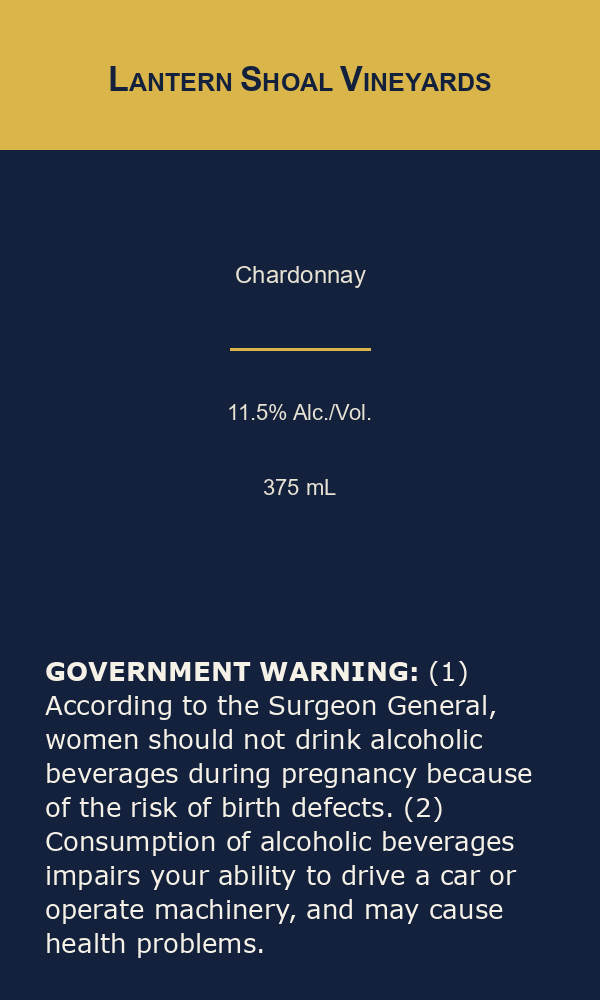
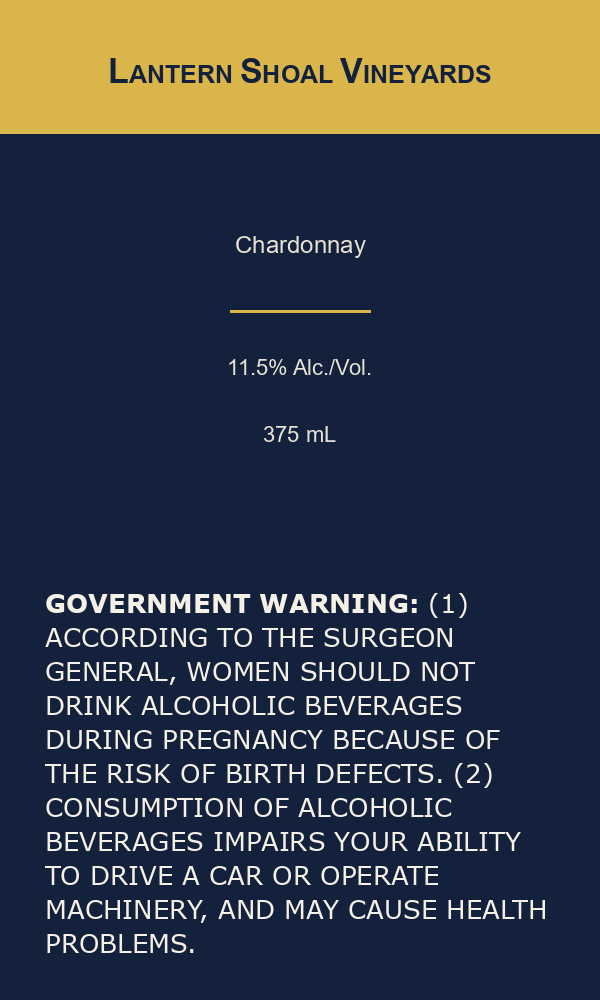
fix: the warning comparator enforced case where the regulation does not
27 CFR 16.22(a)(2) fixes capitals (and bold) for the two heading words
only; the case of the statement body is unregulated, and real approved
labels routinely print the whole statement in capitals — two of two
sampled registry labels do. The old comparator treated any case
difference from the CFR rendering as a capitalization violation, so
legal labels failed.

The comparator now splits where the regulation splits: the heading is
located space-insensitively (OCR drops spaces) and compared exactly;
the body is compared casefolded, word-for-word. Wording defects take
precedence over capitalization, and the word diff displays text as
printed. Two generated fixtures render the body in capitals with
expected verdict pass, pinned through the real matcher at generation
time — an assertion that fails under the old comparator, which is the
point.

Also here: prompt caching evaluated and rejected in DESIGN (the
extractor's stable prefix sits an order of magnitude under Haiku's
minimum cacheable prefix, so a cache marker would be a silent no-op),
the last demo framing removed from internal comments and ADR-0004, the
fixture-replay docstring no longer describes a runtime fallback that
does not exist, and dev-only tools/ no longer ships in the image.

Assisted-by: Claude (claude-fable-5)

diff --git a/src/label_assay/match/warning.py b/src/label_assay/match/warning.py
@@ -1,15 +1,22 @@
 """Government Warning comparison — 27 CFR 16.21 and 16.22(a)(2).
 
-Canonicalize (case-preserving), then compare in two views over the same string:
+Canonicalize (case-preserving), then compare the statement in two parts,
+because the regulation treats them differently:
 
-- verbatim: exact equality of the canonical strings.
-- substance: equality after casefold.
+- heading: the statement's first two words with their colon ("Government
+  Warning" in the mandated capitals) — the only words whose case 16.22(a)(2)
+  regulates. Located space-insensitively, because OCR often drops the space
+  between the rendered heading words (the same concern the bold check
+  handles), then compared case-sensitively.
+- body: the remainder. 16.21 fixes its wording, but no regulation fixes its
+  case — TTB-approved labels routinely set the entire statement in capitals —
+  so it is compared casefolded.
 
-The 2x2 is the finding. Both pass -> compliant. Substance passes but verbatim
-fails -> a capitalization violation (e.g. "Government Warning" in title case,
-which 16.22(a)(2) forbids). Substance fails -> a word is changed, missing, or
-added. The word-level diff is for explaining the finding to a reviewer, never
-for deciding it.
+Heading exact and body words equal -> MATCH. Heading present in the wrong
+case with the body words equal -> CAPITALIZATION. Any changed, missing, or
+added word -> ALTERED, which takes precedence over CAPITALIZATION. The
+word-level diff is for explaining the finding to a reviewer, never for
+deciding it.
 
 A VLM must never adjudicate this: vision models recite this famous paragraph
 from memory and will "read" the mandated text off a label that does not carry
@@ -39,6 +46,11 @@ class WarningFinding:
     diff: tuple[tuple[str, str, str], ...] = ()  # (op, expected_span, found_span)
 
 
+_ALTERED_DETAIL = (
+    "Warning text differs from the mandated statement — a word is changed, missing, or added."
+)
+
+
 def compare_warning(found_text: str | None, reference: str) -> WarningFinding:
     if not found_text or not found_text.strip():
         return WarningFinding(WarningVerdict.ABSENT, "No Government Warning text was found.")
@@ -46,27 +58,58 @@ def compare_warning(found_text: str | None, reference: str) -> WarningFinding:
     ref = canon_statutory(reference)
     got = canon_statutory(found_text)
 
-    if got == ref:
-        return WarningFinding(WarningVerdict.MATCH, "Matches the mandated warning verbatim.")
-    if got.casefold() == ref.casefold():
+    ref_words = ref.split()
+    ref_heading, ref_body = " ".join(ref_words[:2]), " ".join(ref_words[2:])
+
+    located = _locate_heading(got, ref_heading)
+    if located is None:
+        # The heading words themselves are altered or missing.
+        return WarningFinding(WarningVerdict.ALTERED, _ALTERED_DETAIL, _word_diff(ref, got))
+    got_heading, got_body = located
+
+    if got_body.casefold() != ref_body.casefold():
+        # ALTERED outranks CAPITALIZATION: wrong words are the graver finding.
+        return WarningFinding(WarningVerdict.ALTERED, _ALTERED_DETAIL, _word_diff(ref, got))
+
+    if "".join(got_heading.split()) != "".join(ref_heading.split()):
         return WarningFinding(
             WarningVerdict.CAPITALIZATION,
-            "Wording is correct, but capitalization differs: the first two words of the "
-            "warning must be in capital letters (27 CFR 16.22(a)(2)).",
-            _word_diff(ref, got),
+            f'Wording is correct, but the heading is printed as "{got_heading}": the two '
+            "heading words must be in capital letters (27 CFR 16.22(a)(2)).",
+            (("replace", ref_heading, got_heading),),
         )
     return WarningFinding(
-        WarningVerdict.ALTERED,
-        "Warning text differs from the mandated statement — a word is changed, missing, or added.",
-        _word_diff(ref, got),
+        WarningVerdict.MATCH,
+        "Matches the mandated warning: word-for-word, with the heading in capital letters.",
     )
 
 
+def _locate_heading(text: str, heading: str) -> tuple[str, str] | None:
+    """Find ``heading`` at the start of ``text``, ignoring case and internal
+    whitespace. Returns (heading as printed, remainder) or None when the
+    heading's characters do not open the text."""
+    target = "".join(heading.split()).casefold()
+    pos = 0
+    for i, ch in enumerate(text):
+        if ch.isspace():
+            continue
+        if ch.casefold() != target[pos]:
+            return None
+        pos += 1
+        if pos == len(target):
+            return text[: i + 1], text[i + 1:].strip()
+    return None
+
+
 def _word_diff(expected: str, found: str) -> tuple[tuple[str, str, str], ...]:
-    """Word-level diff. autojunk is off: the warning is 283 chars, over difflib's
-    200-char popularity heuristic, which would otherwise change the result."""
+    """Word-level diff, matched casefolded (case is never the substance finding)
+    but displayed as printed. autojunk is off: the warning is 283 chars, over
+    difflib's 200-char popularity heuristic, which would otherwise change the
+    result."""
     exp, fnd = expected.split(), found.split()
-    matcher = difflib.SequenceMatcher(a=exp, b=fnd, autojunk=False)
+    matcher = difflib.SequenceMatcher(
+        a=[w.casefold() for w in exp], b=[w.casefold() for w in fnd], autojunk=False
+    )
     out: list[tuple[str, str, str]] = []
     for op, i1, i2, j1, j2 in matcher.get_opcodes():
         if op == "equal":

diff --git a/tools/make_test_labels.py b/tools/make_test_labels.py
@@ -5,8 +5,11 @@ Build-time asserts pin the text, brand, and alcohol-content defects to the
 engine's own matchers; the not-bold and missing-warning defects give those
 matchers nothing to check at build time, so tests/test_make_labels.py verifies
 every manifest verdict against the engine instead (the not-bold rows through
-real OCR and the stroke-width detector on the rendered pixels). The variety is
-the point: classes across spirits/wine/malt, four layouts, six palettes, several
+real OCR and the stroke-width detector on the rendered pixels). Alongside the
+defects, a compliant body-caps variant renders the whole warning statement in
+capitals — legal under 16.22(a)(2), which fixes only the heading's case — so
+the corpus also catches case-handling false positives. The variety is the
+point: classes across spirits/wine/malt, four layouts, six palettes, several
 font families, four canvas sizes, and invented brands in varied casings, so the
 checks are exercised on labels that do not all look alike.
 
@@ -187,6 +190,14 @@ DEFECTS: tuple[str, ...] = (
     "brand_mismatch",
 )
 
+# A compliant VARIANT, not a defect: the warning body painted in capitals
+# (heading in capitals and bold as always). 27 CFR 16.22(a)(2) fixes the case
+# of the heading words only, and TTB-approved labels routinely set the entire
+# statement in capitals — these rows pin the comparator's heading/body split
+# at pixel level, so a regression back to whole-statement case-sensitivity
+# fails a fixture with expected_verdict pass.
+N_BODY_CAPS = 2
+
 _ALTERATIONS: tuple[tuple[str, str, str], ...] = (
     # (find, replace, note) — each produces WarningVerdict.ALTERED, asserted below.
     ("birth defects", "birth effects", '"birth defects" -> "birth effects"'),
@@ -323,6 +334,16 @@ def build_corpus(seed: int, count: int) -> list[LabelSpec]:
         else:
             raise RuntimeError(f"could not place defect {defect!r}")
 
+    # The body-caps variant lands on otherwise-compliant labels. Reuses the
+    # already-shuffled order and draws nothing from the rng, so every other
+    # label in the corpus is byte-identical to a build without the variant.
+    body_caps: set[int] = set()
+    for idx in order:
+        if len(body_caps) == N_BODY_CAPS:
+            break
+        if idx not in assigned:
+            body_caps.add(idx)
+
     brand_mismatch_kind = 0  # alternate typo / different-name across the set
     specs: list[LabelSpec] = []
     for i in range(count):
@@ -330,7 +351,7 @@ def build_corpus(seed: int, count: int) -> list[LabelSpec]:
         palette = palette_cycle[i % len(palette_cycle)]
         layout = layout_cycle[(i // len(size_cycle)) % len(layout_cycle)]
         size = size_cycle[i % len(size_cycle)]
-        defect = assigned.get(i, "compliant")
+        defect = "warning_body_caps" if i in body_caps else assigned.get(i, "compliant")
 
         suffix = rng.choice(_FAMILY_SUFFIXES[cls.family])
         brand = f"{picked_brands[i]} {suffix}"
@@ -357,6 +378,8 @@ def build_corpus(seed: int, count: int) -> list[LabelSpec]:
         alteration_note = ""
         if defect == "warning_title_case":
             warning_text = reference.replace("GOVERNMENT WARNING:", "Government Warning:", 1)
+        elif defect == "warning_body_caps":
+            warning_text = reference.upper()  # heading already capital; body joins it
         elif defect == "warning_not_bold":
             warning_bold = False
         elif defect == "warning_altered_text":
@@ -402,6 +425,9 @@ def build_corpus(seed: int, count: int) -> list[LabelSpec]:
 
         expected_verdict, note = {
             "compliant": ("pass", "all four checks pass"),
+            "warning_body_caps": (
+                "pass", "statement body painted in capitals; 16.22(a)(2) fixes only the heading case -> pass"
+            ),
             "warning_title_case": (
                 "fail", 'heading painted "Government Warning:" — 16.22(a)(2) capitalization -> fail'
             ),

diff --git a/tests/test_warning.py b/tests/test_warning.py
@@ -35,6 +35,35 @@ def test_title_case_government_warning_is_a_capitalization_violation() -> None:
     assert compare_warning(titlecased, ref).verdict == WarningVerdict.CAPITALIZATION
 
 
+def test_all_caps_statement_matches() -> None:
+    # 16.22(a)(2) regulates the case of the heading words ONLY; TTB-approved
+    # labels routinely set the entire statement in capitals, and those are legal.
+    ref = _ref()
+    assert compare_warning(ref.upper(), ref).verdict == WarningVerdict.MATCH
+
+
+def test_ocr_joined_heading_words_still_match() -> None:
+    # OCR often drops the space between the rendered heading words.
+    ref = _ref()
+    joined = ref.replace("GOVERNMENT WARNING:", "GOVERNMENTWARNING:")
+    assert compare_warning(joined, ref).verdict == WarningVerdict.MATCH
+
+
+def test_changed_word_with_correct_heading_is_altered() -> None:
+    ref = _ref()
+    swapped = ref.replace("birth defects", "birth effects")
+    assert compare_warning(swapped, ref).verdict == WarningVerdict.ALTERED
+
+
+def test_title_case_heading_with_changed_word_is_altered_not_capitalization() -> None:
+    # ALTERED takes precedence when both violations apply.
+    ref = _ref()
+    both = ref.replace("GOVERNMENT WARNING", "Government Warning").replace(
+        "birth defects", "birth effects"
+    )
+    assert compare_warning(both, ref).verdict == WarningVerdict.ALTERED
+
+
 def test_missing_word_is_altered_and_reports_a_diff() -> None:
     ref = _ref()
     dropped = ref.replace("birth defects", "defects")  # "birth" removed

diff --git a/tests/test_batch.py b/tests/test_batch.py
@@ -3,7 +3,9 @@
 from __future__ import annotations
 
 import asyncio
+import csv
 import hashlib
+import io
 
 import pytest
 from fastapi.testclient import TestClient
@@ -80,13 +82,12 @@ def test_batch_checks_each_label_against_its_own_application() -> None:
         for b in fixture_corpus.generator().BRANDS
         if match_brand(SPEC.painted_brand, b).verdict == BrandVerdict.MISMATCH
     )
-    applications = parse_application_csv(
-        (
-            f"filename,brand_name,class_type\n"
-            f"right.png,{SPEC.filed_brand},{SPEC.class_type}\n"
-            f"wrong.png,{other_brand},{SPEC.class_type}\n"
-        ).encode("utf-8")
-    )
+    buf = io.StringIO()
+    writer = csv.writer(buf)  # quotes as needed, so a brand containing a comma survives
+    writer.writerow(["filename", "brand_name", "class_type"])
+    writer.writerow(["right.png", SPEC.filed_brand, SPEC.class_type])
+    writer.writerow(["wrong.png", other_brand, SPEC.class_type])
+    applications = parse_application_csv(buf.getvalue().encode("utf-8"))
     job = create_job(["right.png", "wrong.png"])
     asyncio.run(
         run_job(job, [("right.png", image), ("wrong.png", image)], fixture, None, applications)

diff --git a/src/label_assay/extract/fixture.py b/src/label_assay/extract/fixture.py
@@ -1,9 +1,10 @@
-"""Fixture extractor — replays a stored Extraction keyed by image hash.
+"""Fixture extractor — a hash-keyed replay adapter for tests.
 
-Two jobs: deterministic tests (no network, no model variance) and an offline
-demo path if the AI endpoint is unreachable, which is the failure mode the
-client named. An unknown image raises, so a test cannot silently pass on a
-missing fixture.
+Replays a stored Extraction keyed by the sha256 of the image bytes, so tests
+run deterministically with no network and no model variance. An unknown image
+raises, so a test cannot silently pass on a missing fixture. Nothing wires
+this in at runtime: when no extractor is configured, the service reports the
+reader unavailable rather than falling back.
 """
 
 from __future__ import annotations

diff --git a/tests/test_make_labels.py b/tests/test_make_labels.py
@@ -61,7 +61,11 @@ def test_every_defect_type_appears_at_least_twice() -> None:
         counts[spec.defect] = counts.get(spec.defect, 0) + 1
     for defect in gen.DEFECTS:
         assert counts.get(defect, 0) >= 2, f"{defect} appears fewer than twice"
-    assert counts["compliant"] >= len(specs) // 2  # about half the set is compliant
+    # The body-caps rows are compliant (16.22(a)(2) fixes only the heading case),
+    # so they count toward the compliant half of the corpus.
+    assert counts.get("warning_body_caps", 0) == gen.N_BODY_CAPS
+    compliant = counts["compliant"] + counts.get("warning_body_caps", 0)
+    assert compliant >= len(specs) // 2  # about half the set is compliant
 
 
 def test_brand_mismatch_covers_both_variants() -> None:

diff --git a/src/label_assay/extract/__init__.py b/src/label_assay/extract/__init__.py
@@ -9,6 +9,6 @@ it back).
 The port is a Protocol so an adapter never imports the core to subclass it. This
 is the one seam the requirements justify — the client's firewall blocked the
 previous vendor's cloud ML endpoint, so the backend must be swappable: a hosted
-vision model for the demo, a local OCR or in-tenant Azure endpoint for their
-environment, a fixture replay for tests.
+vision model for the deployed instance, a local OCR or in-tenant Azure endpoint
+for their environment, a fixture replay for tests.
 """

diff --git a/src/label_assay/web/app.py b/src/label_assay/web/app.py
@@ -29,7 +29,7 @@ from label_assay.web.budget import DailyBudget
 from label_assay.web.service import ExtractionUnavailable, check_label, default_extractor
 
 _BG_TASKS: set = set()  # keep references so fire-and-forget batch jobs aren't GC'd
-# Bounds what this public demo can spend in a day. The provider-side workspace
+# Bounds what this public instance can spend in a day. The provider-side workspace
 # spend cap is the hard ceiling; this makes the app degrade politely first.
 _BUDGET = DailyBudget(limit_usd=get_settings().daily_budget_usd)
 

diff --git a/src/label_assay/web/budget.py b/src/label_assay/web/budget.py
@@ -1,4 +1,4 @@
-"""Daily spend guard — bounds what a public demo can cost.
+"""Daily spend guard — bounds what a public instance can cost.
 
 A publicly reachable app wired to a paid vision API is an open wallet: without a
 bound, anyone can run up the bill. Defence is layered. The provider-side

diff --git a/src/label_assay/web/service.py b/src/label_assay/web/service.py
@@ -33,7 +33,7 @@ def check_label(
     extractor: ExtractorPort,
     budget: DailyBudget | None = None,
 ) -> LabelReport:
-    # Account for the paid call before making it, so a public demo cannot be
+    # Account for the paid call before making it, so a public instance cannot be
     # driven past its daily bound.
     if budget is not None:
         try:

diff --git a/docs/DESIGN.md b/docs/DESIGN.md
@@ -17,7 +17,7 @@ Each of these is a scoping decision, not an omission.
 
 - **Type size, characters per inch, contrasting background.** Regulated in millimetres (27 CFR 16.22(b), 5.53, 7.53). A flat image carries no DPI or physical-scale reference, so these are *unverifiable from the artifact*. They are reported as not evaluable with the citation, rather than guessed. TTB Form 5100.31 itself states TTB does not routinely review for them.
 - **"Same field of vision" placement** (27 CFR 5.63(a)) — defined geometrically (40% of a cylinder's circumference); a flat image cannot express it.
-- **Dewarping, glare, perspective correction.** COLA label images are flat print artwork, not bottle photographs, so this subsystem would be dead code. If photographs became an input, the extractor port (ADR-0004) is where that lands.
+- **Dewarping, glare, perspective correction.** Most COLA label images are flat print artwork, but real filings do include bottle photography — one of the eleven real-registry labels in `tests/fixtures/cola/` is a pair of bottle photographs with curved label text. The honest behavior there is abstention (unreadable fields go to review), not a half-built correction pipeline; if photographic input became the norm, the extractor port (ADR-0004) is where dewarping lands.
 - **Alcohol content versus the application.** TTB Form 5100.31 has *no* alcohol-content field, so there is nothing on the application to compare against. Alcohol content is therefore checked for internal consistency (proof = 2 × ABV, 27 CFR 5.1) instead. The CFR's ±0.3 percentage-point tolerance is a **label-versus-laboratory** allowance — applying it to a document comparison would forgive a real data-entry discrepancy, which is why it is not used that way here.
 - **Brand matching in batch mode.** A batch of loose images carries no per-label application, so the brand match is reported not evaluable there rather than forced. It is a paired, single-label operation.
 - **COLA system integration**, and **persisting anything sensitive** — images are processed in memory.
@@ -51,6 +51,7 @@ A compliance tool must never fail a label it merely could not read. The third st
 ## Trade-offs and limitations
 
 - **Cost is estimated, not metered.** The daily spend guard bounds the public instance using a conservative per-label estimate rather than actual token usage. The provider-side workspace spend cap is the real ceiling.
+- **Prompt caching: evaluated and rejected.** The extractor's only stable prefix is its ~400-token tool schema, an order of magnitude under Haiku 4.5's 4,096-token minimum cacheable prefix, so caching cannot engage. The dominant cost is the per-label image, which is unique per request. Revisit if the prompt ever grows past the minimum (e.g. few-shot examples).
 - **Batch throughput is host-bound, and the deployed instance is on a shared-CPU tier.** This is the sharpest limitation and it is worth being precise about, because it is not a code defect. Every label runs local OCR, which is sustained CPU. A shared-CPU machine grants burst credits and then throttles to a fraction of a core. Measured, on identical work back to back: **~2.3s per label on burst, then 20–30s per label once spent — a 40× cliff after roughly 20 labels.** A 25-label batch completes in ~164s. A 300-label batch does not complete on this tier: throttled, the machine eventually stops keeping up and the run is lost with it. Dedicated CPU holds the burst rate; the pipeline is not the bottleneck, the machine is. The tempting shortcut — dropping OCR from the batch path to make it fast — was rejected: it would delete the confidence cross-check and the bold check at scale, making bulk mode quietly less rigorous than single-label. A compliance tool should not have a weaker mode.
 - **Batch state is in-memory and single-instance.** The job store lives in the process, so the app is deployed as one instance and CI enforces that on every deploy (Fly provisions two machines by default, which silently 404s a batch when the poll lands on the machine that did not create it — found the hard way). A restart loses in-flight jobs. A production deployment needs a shared job store (Redis/Postgres) and horizontal scale; one machine is a single point of failure for a queue of 300 applications.
 - **Bold detection abstains on small print.** Real warnings are 1–2 mm; below roughly a 14px cap height the check reports review rather than committing. It also assumes the heading and body share a line and type size.
@@ -60,9 +61,9 @@ A compliance tool must never fail a label it merely could not read. The third st
 
 ## Evaluation
 
-Verified against a generated fixture corpus with known ground truth (`tests/fixtures/labels/`, built by `tools/make_test_labels.py`): 24 synthetic labels across spirits, wine, and malt classes, four layouts, six palettes, and four canvas sizes — about half compliant, the rest each carrying one specific defect mapped to a check the engine actually performs. `manifest.csv` records each label's defect and expected verdict; `applications.csv` carries the filed application data, deliberately wrong on the brand-mismatch labels. The corpus is regenerable from a seed, and its ground truth is pinned to the code from two directions: the generator asserts the text, brand, and alcohol-content defects against the engine's own matchers at build time, and the test suite verifies every manifest verdict against the engine, pushing the regular-weight headings through real OCR and the stroke-width detector on their rendered pixels. Mutation tests additionally alter the mandated warning (title-casing the heading, dropping a word) and the application data to exercise each verdict. 80 tests; the deterministic core is property-tested for idempotence, and the normalizer is proven a no-op on the verbatim 27 CFR 16.21 reference — which is what makes the byte-for-byte comparison trustworthy.
+Verified against a generated fixture corpus with known ground truth (`tests/fixtures/labels/`, built by `tools/make_test_labels.py`): 24 synthetic labels across spirits, wine, and malt classes, four layouts, six palettes, and four canvas sizes — about half compliant (two of those render the entire warning statement in capitals, which is legal since 27 CFR 16.22(a)(2) fixes only the heading's case, and pins the comparator's heading/body split at pixel level), the rest each carrying one specific defect mapped to a check the engine actually performs. `manifest.csv` records each label's defect and expected verdict; `applications.csv` carries the filed application data, deliberately wrong on the brand-mismatch labels. The corpus is regenerable from a seed, and its ground truth is pinned to the code from two directions: the generator asserts the text, brand, and alcohol-content defects against the engine's own matchers at build time, and the test suite verifies every manifest verdict against the engine, pushing the regular-weight headings through real OCR and the stroke-width detector on their rendered pixels. Mutation tests additionally alter the mandated warning (title-casing the heading, dropping a word) and the application data to exercise each verdict. 88 tests; the deterministic core is property-tested for idempotence, and the normalizer is proven a no-op on the verbatim 27 CFR 16.21 reference — which is what makes the word-for-word comparison trustworthy.
 
-**Not yet done:** a measured precision/recall against a corpus of real approved labels from TTB's public COLA registry. That is the highest-value next step, and the registry supplies both the images and the application-side ground truth for free. Every approved COLA is a true positive by construction, so the reject class would need synthesized violations — the same mutation approach already used here.
+Real labels: `tests/fixtures/cola/` holds 11 approved filings from TTB's public COLA registry with the application-side data as filed, and `uv run python tools/eval_cola.py` drives them through a running instance's batch endpoint end-to-end. Approved labels bound the false-positive side of the ledger: a content-rule fail on one is a candidate false positive, a needs-review is legitimate abstention. Candidate, not proven — approval does not guarantee textual perfection: `cola_24100001000120` prints its heading as "GOVERMENT WARNING" on the label itself, a real defect that approval missed, so a wording fail on that row is a true positive (the corpus README documents it). **Not yet done:** a full precision/recall number. Approval makes nearly every COLA here a true pass, and one organic misspelling is not a reject class, so measuring recall would need synthesized violations on real artwork — the same mutation approach already used on the generated corpus.
 
 ## Governance
 

diff --git a/README.md b/README.md
@@ -10,7 +10,7 @@ The reading is done by AI. The deciding is not.
 
 A vision model transcribes what is on the label. Compliance verdicts are then computed in plain Python against a rulebook of TTB rules held as data. Two reasons drove that split:
 
-- **A model will confidently pass a non-compliant label.** Vision models reproduce the Government Warning from memory instead of reading it — they score near-perfectly on canonical images and badly on altered ones. A label whose warning is subtly wrong *is* an altered image. So the statutory text is compared byte-for-byte in code, where it either matches or it does not.
+- **A model will confidently pass a non-compliant label.** Vision models reproduce the Government Warning from memory instead of reading it — they score near-perfectly on canonical images and badly on altered ones. A label whose warning is subtly wrong *is* an altered image. So the statutory text is compared deterministically in code — word-for-word, with the mandated heading capitals checked exactly — where it either matches or it does not.
 - **Speed.** The prior vendor took 30–40 seconds per label, so reviewers went back to checking by eye. One terse model call plus microseconds of deterministic checking stays inside the 5-second target.
 
 An independent OCR pass reads the same image. Where the two readings disagree, the finding is held for a human rather than passed or failed — the two channels fail in different ways, so their agreement is real evidence in a way a model's self-reported confidence is not.
@@ -56,7 +56,7 @@ uv run pytest                 # live-API tests skip cleanly without a key
 
 ## Test labels
 
-`tools/make_test_labels.py` generates the corpus in `tests/fixtures/labels/`: 24 synthetic labels spanning distilled spirits, wine, and malt classes, four layouts, six palettes, several font families, and four canvas sizes, with invented brands in varied casings. About half are compliant; the rest each carry one specific defect mapped to a check the engine actually performs — warning heading in title case, heading not bold, altered statutory text, missing warning, proof ≠ 2 × ABV, and a label brand differing from the filed brand (both a typo-level variant and a different brand).
+`tools/make_test_labels.py` generates the corpus in `tests/fixtures/labels/`: 24 synthetic labels spanning distilled spirits, wine, and malt classes, four layouts, six palettes, several font families, and four canvas sizes, with invented brands in varied casings. About half are compliant — two of those render the entire warning statement in capitals, which is legal because 27 CFR 16.22(a)(2) fixes only the heading's case; the rest each carry one specific defect mapped to a check the engine actually performs — warning heading in title case, heading not bold, altered statutory text, missing warning, proof ≠ 2 × ABV, and a label brand differing from the filed brand (both a typo-level variant and a different brand).
 
 Two CSVs ride along:
 
@@ -66,6 +66,8 @@ Two CSVs ride along:
 Regenerate with `uv run python tools/make_test_labels.py`. Output is deterministic for a given `--seed` on one machine; fonts differ across machines, so committed bytes are machine-specific.
 
 To try the app with them: upload any fixture PNG on the single-label page together with its `brand_name` and `class_type` row from `applications.csv` — or upload several PNGs plus `applications.csv` itself on `/batch`. `manifest.csv` says what each label should produce.
+
+A second, real corpus lives in `tests/fixtures/cola/`: 11 label filings from TTB's public COLA Registry, one composite PNG per application, with the brand and class/type as filed. All eleven were approved by TTB, which makes them ground truth in one direction: `uv run python tools/eval_cola.py` uploads them through a running instance's `/batch` endpoint and reports per-label outcomes, where a content-rule **fail** is a candidate false positive, **needs review** is legitimate abstention (rotated and low-contrast warnings are in the set on purpose), and bold-check findings are soft ground truth because the registry disclaims the rendered typography. One documented exception: `cola_24100001000120` misspells the mandated heading as `GOVERMENT WARNING` on the label itself (approval does not guarantee textual perfection), so a wording **fail** on that row is a true positive, not a checker bug. Provenance and per-label notes: [tests/fixtures/cola/README.md](tests/fixtures/cola/README.md).
 
 ## Layout
 